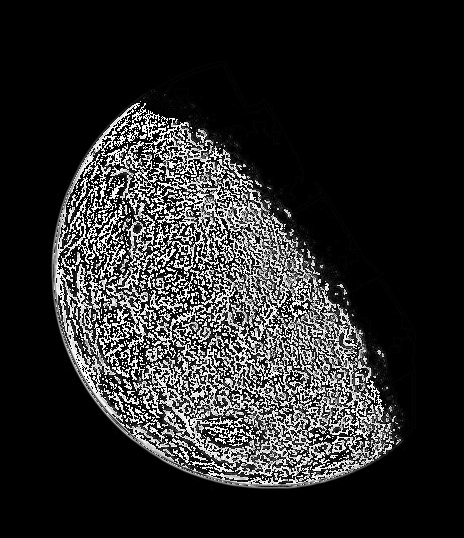
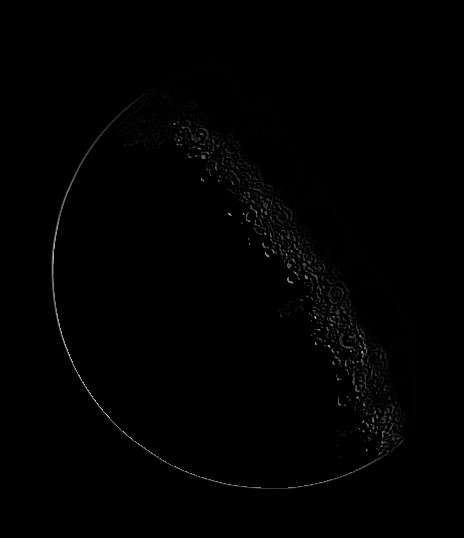
changed lap and updated sobel

Changed region(s): [[0.0905, 0.1784, 0.875, 0.9219]]

diff --git a/Project 3 Morphological Filters/sharpening.py b/Project 3 Morphological Filters/sharpening.py
@@ -10,35 +10,24 @@ import cv2
 from skimage import io
 import numpy as np
 # below function defines the which is the sharpening filter used 
-def lapician(x,y,size=3):
-    #init a sum varible to 0
-    s =0 
-    #loop through the filter size. (same as project 2 noise reduction average filtering)
-    # by dividing the filter size by 2, then going to the left and right by the quotent, we are essentially centering the filter
-    # ive done this by setting the range from -(size of filter)/2 to (size of filter)/2 +1, then taking floor of these values
-    # for example , with filter size 3, we get range -1,2, meaning our filter will span:
-    # [i-1,j-1] [i-1,j] [i-1,j+1]
-    # [i,  j-1] [i,  j] [i,  j+1]
-    # [i+1,j-1] [i+1,j] [i+1,j+1]
-    for i in range(-int(size/2),int(size/2)+1):
-       for j in range(-int(size/2),int(size/2)+1):
-        #for each value we determine its position in the filter, and multiply its coeffient to it and add it to sum
-        #if it is the center pixel, multiply by 8 add add:
-            s+= -1* padded[x+i][y+j] 
-    s+= 9 * padded[x][y]
-    #finally return the sum
-    if s[0]<0:
-        s*= -1
-    return s 
 
+def laplacian(i,j):
+    s= padded[i-1, j-1]*lapFilter[0][0]+padded[i-1, j]*lapFilter[0][1]+padded[i-1, j + 1]*lapFilter[0][2]+padded[i, j-1]*lapFilter[1][0]+ padded[i][j]*lapFilter[1][1]+padded[i, j + 1]*lapFilter[1][2]+padded[i + 1, j-1]*lapFilter[2][0]+padded[i + 1, j]*lapFilter[2][1]+padded[i + 1, j + 1]*lapFilter[2][2]     
+    if(s[1]<0):
+        return 256- s
+    return s
 def sobel(i,j):
     s=0
     #take the defined sobel mask/filter and apply it to each pixel in the range x-1,y-1 to x+1,y+1
     #this time, since the values differ in each step, instead of a loop i decide to one line it
-    
     s= padded[i-1, j-1]*sobelV[0][0]+padded[i-1, j]*sobelV[0][1]+padded[i-1, j + 1]*sobelV[0][2]+padded[i, j-1]*sobelV[1][0]+ padded[i][j]*sobelV[1][1]+padded[i, j + 1]*sobelV[1][2]+padded[i + 1, j-1]*sobelV[2][0]+padded[i + 1, j]*sobelV[2][1]+padded[i + 1, j + 1]*sobelV[2][2]     
+    s+= padded[i-1, j-1]*sobelH[0][0]+padded[i-1, j]*sobelH[0][1]+padded[i-1, j + 1]*sobelH[0][2]+padded[i, j-1]*sobelH[1][0]+ padded[i][j]*sobelH[1][1]+padded[i, j + 1]*sobelH[1][2]+padded[i + 1, j-1]*sobelH[2][0]+padded[i + 1, j]*sobelH[2][1]+padded[i + 1, j + 1]*sobelH[2][2]     
+
+    if(s[1]<0):
+        return 256- s
     return s 
 
+lapFilter = [[1,1,1],[1,-8,1],[1,1,1]]
 #sobel filters vertical and horizontal from slides:
 sobelV = [[-1,-2,-1],[0,0,0],[1,2,1]]
 sobelH = [[-1,0,1],[-2,0,2],[-1,0,1]]
@@ -49,19 +38,20 @@ moonimage = cv2.cvtColor(moonimage,cv2.COLOR_BGR2RGB)
 padded = cv2.copyMakeBorder(moonimage,1,1,1,1,cv2.BORDER_CONSTANT,value=[0,0,0])
 
 output = moonimage.copy()
-lapic = moonimage.copy()
-sob = moonimage.copy()
+lapic = np.zeros([moonimage.shape[0], moonimage.shape[1], 3], dtype=np.uint8)
+
+sob = np.zeros([moonimage.shape[0], moonimage.shape[1], 3], dtype=np.uint8)
 plottool.imshow(padded)
 plottool.show()
 
 for i in range(moonimage.shape[0]):
    for j in range(moonimage.shape[1]):
-        lapic[i][j] = lapician(i,j) 
-       
-output = output + lapic
+        lapic[i][j] = laplacian(i,j) 
+        output[i][j] = output[i][j]+lapic[i][j]
+
 plottool.imshow(lapic)
 plottool.show()
-#cv2.imwrite('output/sharpen/laplacian/laplacianFilter.jpg',lapic)
+#cv2.imwrite('output/sharpen/laplacian/laplacianFilter1.jpg',lapic)
 plottool.imshow(output)
 plottool.show()
 #cv2.imwrite('output/sharpen/laplacian/outLaplace.jpg',output)
